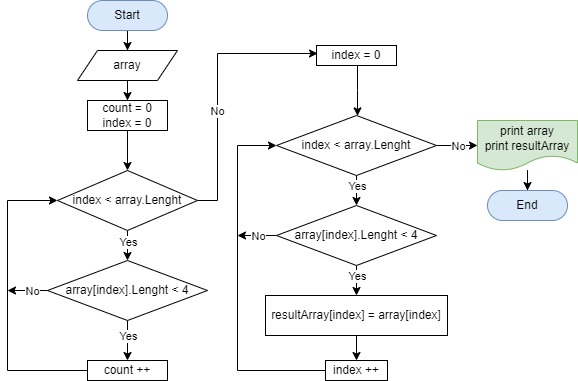
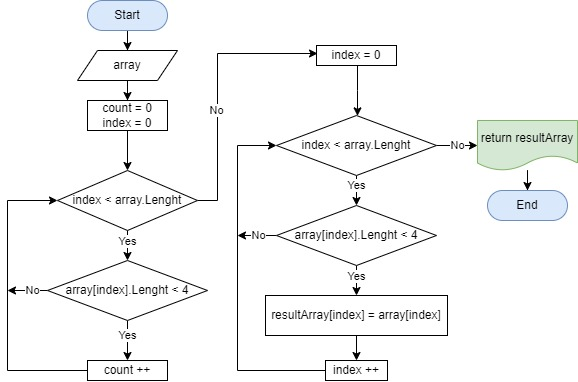
Edited: readme.md, algorithm block diagram

diff --git a/README.md b/README.md
@@ -1,2 +1,71 @@
-# GB_Dev_final_project
-Final project for GeekBrains Developer session
+# **Итоговая проверочная работа**
+
+Программа разработана в рамках итоговой проверочной работы по первому блоку обучения на курсе Разработчик.
+
+## Описание программы
+
+Программа преобразует текст, полученный в исходных данных в формате переменной типа string, в массив строк, копирует из него в новый массив элементы с длиной менее 4х символов и выводит оба массива на экран, с соответствующими комментариями. Интерактивный режим с пользователем не используется.
+
+## Описание методов
+
+1. Метод преобразования текста в массив строк:
+
+        string[] FillArrayFromTxt(string line) 
+        {
+            line = line.Replace(",", "").Replace(".", "");
+            string[] strArray = line.Split(" ");
+            return strArray;
+        }
+
+Данный метод:
+* получает текст из переменной типа string
+* удаляет из него ненужные в данной задаче символы ("." и ",") 
+* преобразует текст в массив строк с помощью встроенного метода C# String.Split
+* возвращает массив в точку вызова метода.
+
+2. Метод выборки в новый массив элементов массива с заданными условиями
+
+        string[] CreateArrayWithSelectedItems(string[] arr)
+            {
+                int count = 0;
+                for (int i = 0; i < arr.Length; i++)
+                {
+                    if (arr[i].Length < 4)
+                    {
+                        count++;
+                    }
+                }
+
+            string[] resultArr = new string[count];
+            int index = 0;
+            for (int i = 0; i < arr.Length; i++)
+            {
+
+                if (arr[i].Length < 4)
+                {
+                    resultArr[index] = arr[i];
+                    index++;
+                }
+            }
+            return resultArr;
+        }
+
+
+Данный метод:
+* принимает на вход массив типа string
+* проверяет в первом цикле исходный массив на количество элементов, удовлетворяющих условию - длина элемента < 4 символов
+* создает новый массив с размером, равным количеству найденых элементов, удовлетворяющих условию
+* во втором цикле копирует эти элементы в созданный массив
+* возвращает массив в точку вызова метода
+
+*Блок-схема алгоритма метода*
+
+![Блок-диаграмма основного алгоритма](/Algorithm%20block%20diagram.jpg)
+
+
+(C) разработчик Сергей Карпов.
+
+
+
+
+    
